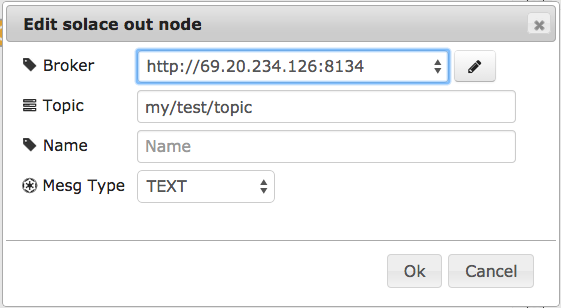
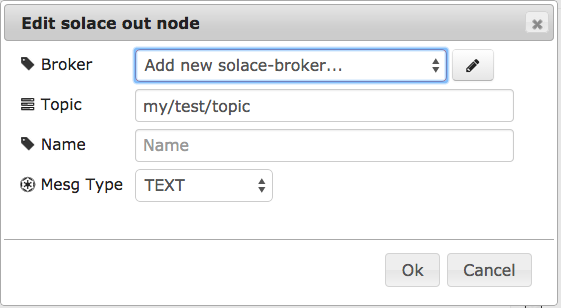
readme tweeks

Changed region(s): [[0.0, 0.0, 1.0, 1.0], [0.8788, 0.1753, 0.9091, 0.2045]]

diff --git a/README.md b/README.md
@@ -41,15 +41,14 @@ and output <img src="https://github.com/hjespers/node-red-contrib-solace/blob/ma
 nodes in the pallet on the left side of the screen.
 
 
-Drag either solace node to the canvas and click to configure the topic and message type
+Drag either solace node to the canvas and double click to configure the topic, broker, and message type
 
 <img src="https://github.com/hjespers/node-red-contrib-solace/blob/master/images/edit_solace_node.png">
 
 
-Click on the ??? to configure a solace broker connection if one does not already exist.
+Click on the pencil icon to the right of the broker selection box to configure a solace broker connection if one does not already exist.
 
 <img src="https://github.com/hjespers/node-red-contrib-solace/blob/master/images/edit_solace_broker_config.png">
-
 
 Publish and subscribe just as you would with the mqtt node with some small differences namely:
 <ul>
@@ -57,6 +56,10 @@ Publish and subscribe just as you would with the mqtt node with some small diffe
     <li>the solace wildcard characters are "*" and ">" rather than "+" and "#" (respectively)</li>
     <li>the solace web streaming transport works over http(s)
 </ul>
+
+A sample flow with wildcard subscriptions is provided in the flows subdirectory
+
+<img src="https://github.com/hjespers/node-red-contrib-solace/blob/master/flows/sample_solace_pubsub_flow.png">
 
 #Usage
 
